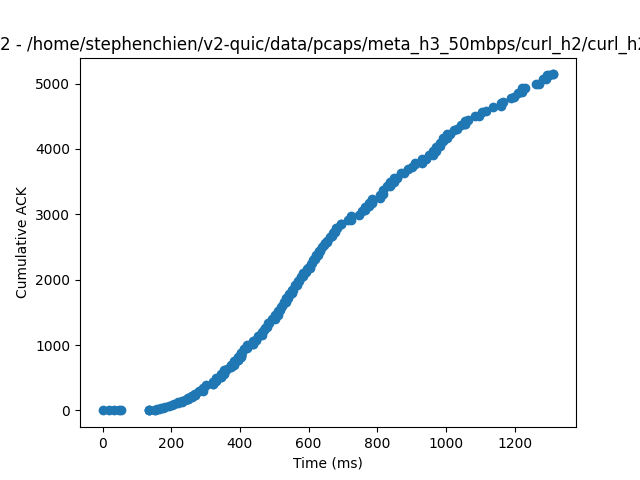
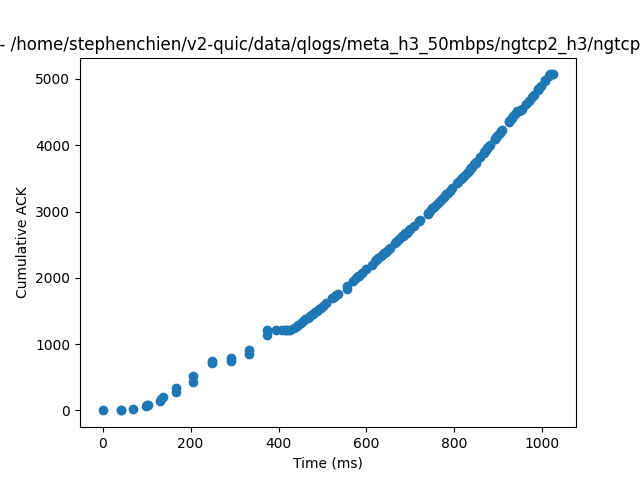
testing more

diff --git a/analysis/ack_analysis.py b/analysis/ack_analysis.py
@@ -128,8 +128,9 @@ def analyze_pcap(filename: str) -> tuple[dict, str]:
                 rx_ts[time + delay] = bytes_seq
                 rx_packets_ts.append((time + delay, {'length': bytes_len}))
 
-                # Track last server packet time
-                last_server_packet_time = time + delay
+                # Track last server packet time (for data packets)
+                if (int(tcp['tcp.len'])) > 0:
+                    last_server_packet_time = time
 
                 if bytes_seq > prev_seq:
                     prev_seq = bytes_seq
@@ -192,6 +193,8 @@ def analyze_pcap(filename: str) -> tuple[dict, str]:
     ttlb = None
     if first_client_packet_time is not None and last_server_packet_time is not None:
         ttlb = last_server_packet_time - first_client_packet_time
+    print(ack_packets_ts[-1][0], ack_packets_ts[0][0])
+    ttlb = ack_packets_ts[-1][0] - ack_packets_ts[0][0]
 
     return {
         'ack_ts': ack_ts,
@@ -379,6 +382,8 @@ def analyze_qlog(filename: str) -> tuple[dict, str]:
     ttlb = None
     if first_client_packet_time is not None and last_server_packet_time is not None:
         ttlb = last_server_packet_time - first_client_packet_time
+    print(ack_packets_ts[-1][0], ack_packets_ts[0][0])
+    ttlb = ack_packets_ts[-1][0] - ack_packets_ts[0][0]
 
     return {
         'ack_ts': ack_ts,

diff --git a/pipeline/main.py b/pipeline/main.py
@@ -16,11 +16,17 @@ def main():
     for experiment in experiments.values():
         output_files = run_experiment(experiment, clients)
         for (client, client_outputs) in output_files.items():
+            ttlb_sum = 0
+            ttlb_count = 0
             for client_output in client_outputs:
                 if client.is_h3:
                     analysis_res = analyze_qlog(client_output)
                 else:
                     analysis_res = analyze_pcap(client_output)
+                ttlb = analysis_res['ttlb']
+                if ttlb is not None:
+                    ttlb_sum += ttlb
+                    ttlb_count += 1
 
                 x = []
                 y = []
@@ -34,6 +40,9 @@ def main():
                 plt.xlabel('Time (ms)')
                 plt.ylabel('Cumulative ACK')
                 plt.title(f'{client.name} - {client_output}')
-                plt.savefig('test.png')  # Save instead of show
+                plt.savefig(f'{client.name}.png')  # Save instead of show
                 plt.close() 
+
+            ttlb_avg = ttlb_sum / ttlb_count
+            print(client.name, ttlb_avg)
 main()

diff --git a/clients/run_clients.py b/clients/run_clients.py
@@ -201,11 +201,15 @@ def run_iteration(client: Client, url: str, iteration: int,
         
         # Build and run client command
         cmd = build_client_command(client, url, TMP_QLOG if client.is_h3 else None)
+        start_time = time.time()
         result = subprocess.run(
             cmd,
             capture_output=True,
             env=env
         )
+        end_time = time.time()
+        duration = end_time - start_time
+        print(f"    Client ran for {duration:.2f} seconds")
 
         # Stop packet capture for H2
         if pcap_process:
@@ -323,4 +327,4 @@ def run_experiment(experiment: Experiment, client_dict: dict[str, Client]) -> No
                         print(f'Retry {retries}/{max_retries}... with error: {e}', end=' ')
         
         print(f'Completed {client_name}: {experiment.iterations} iterations')
-        return output_files
+    return output_files
